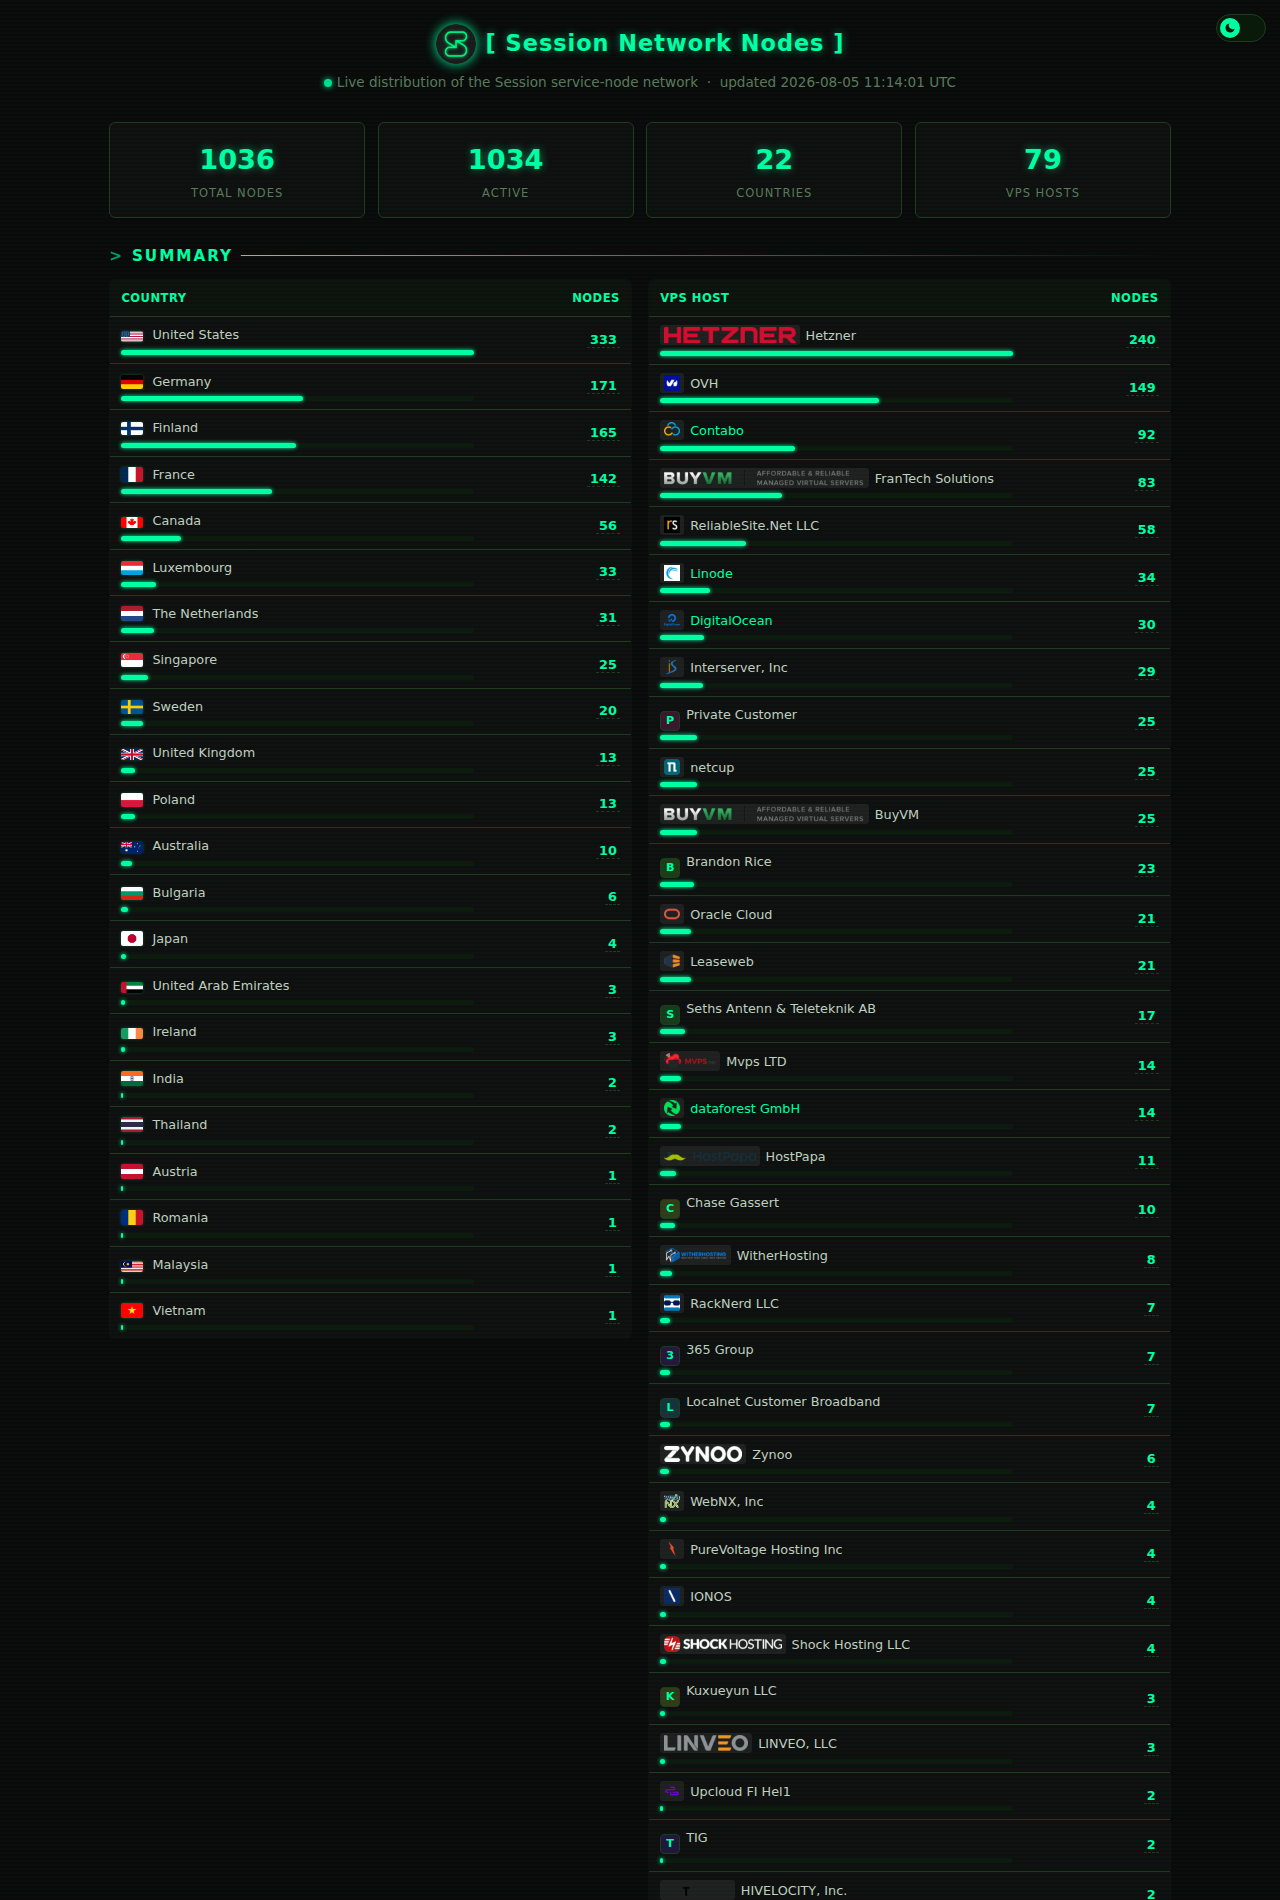
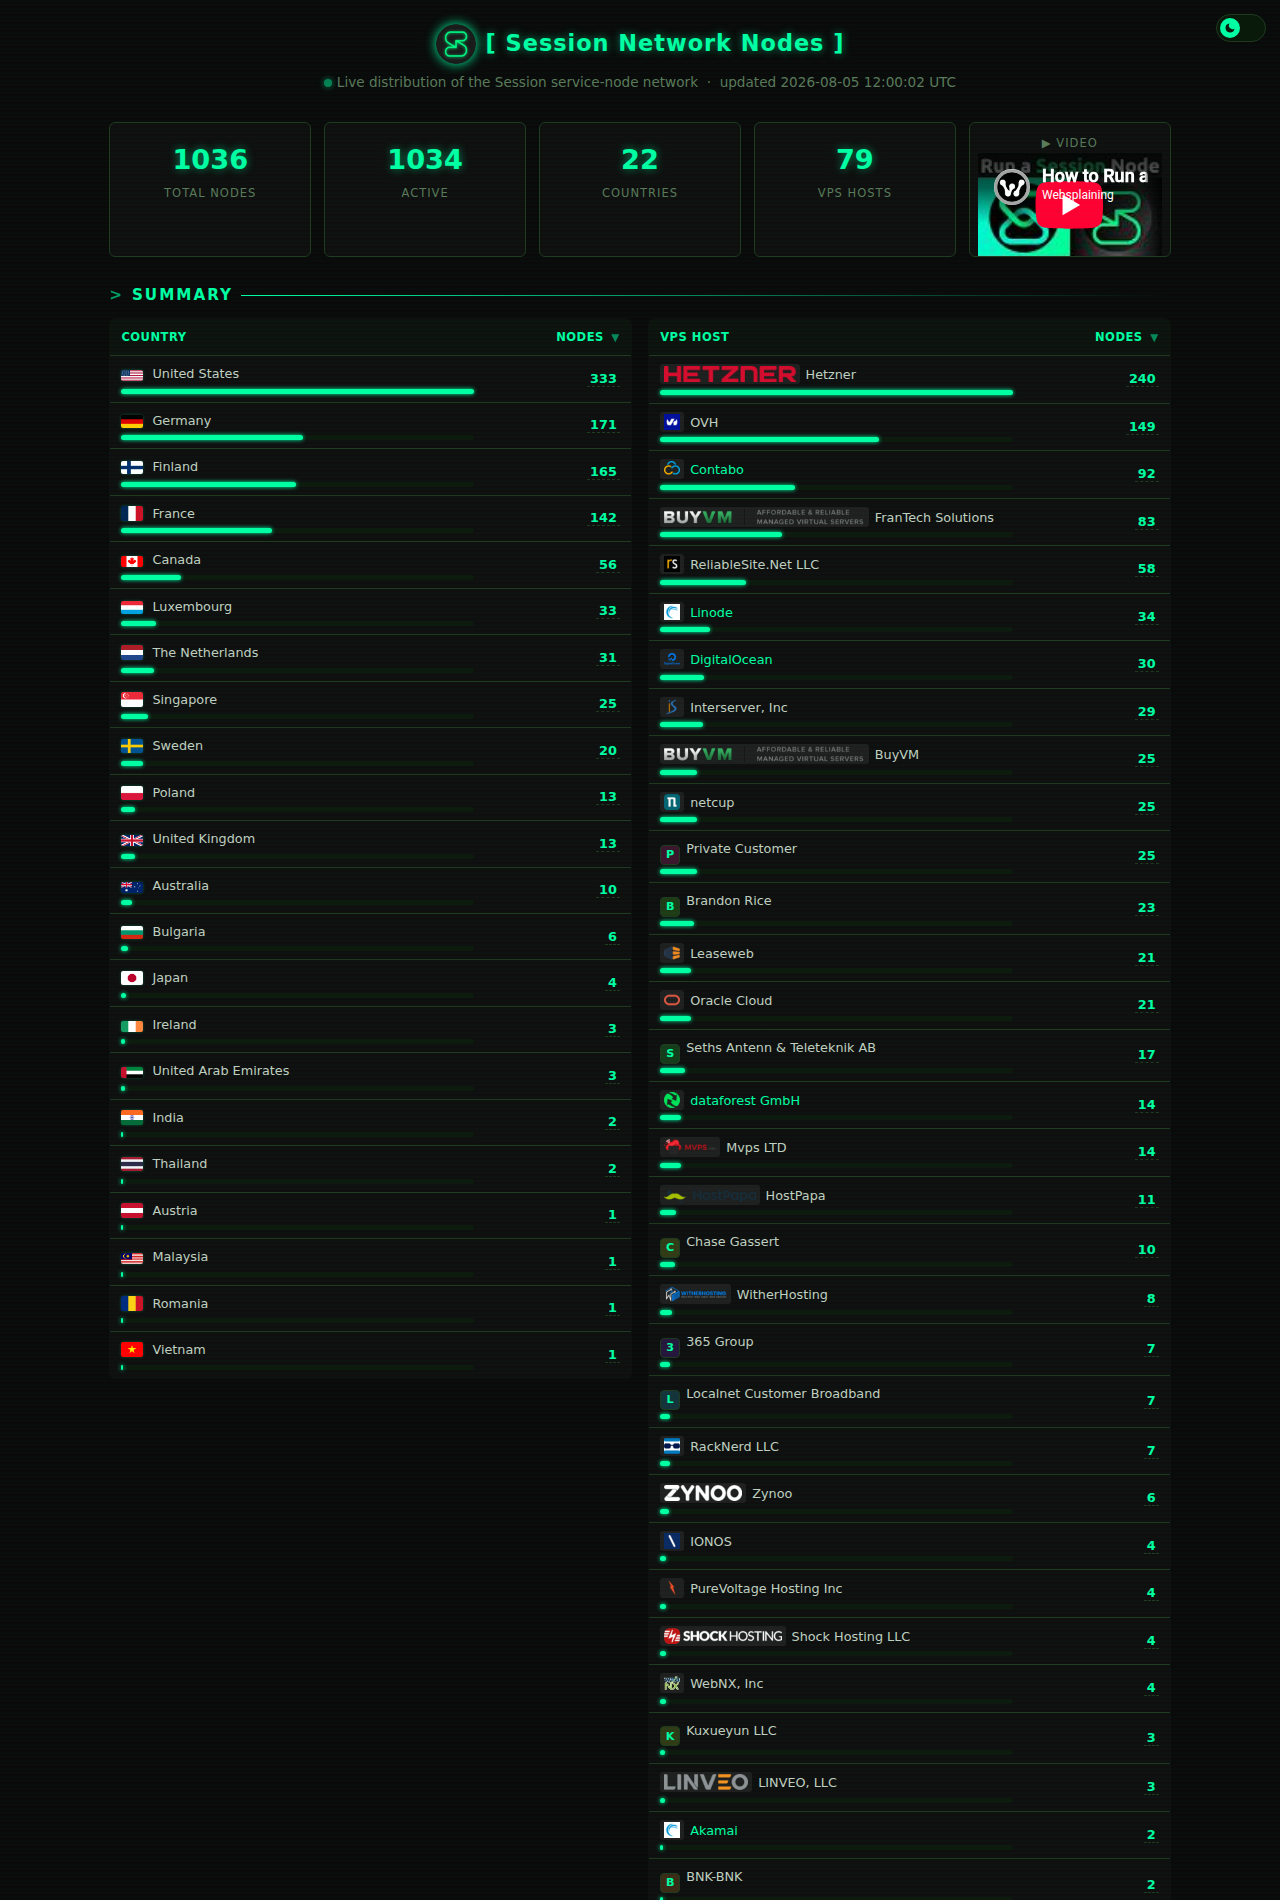
Add video label, SEO (index, canonical, JSON-LD), sortable summary Nodes column

diff --git a/index.html b/index.html
@@ -3,8 +3,10 @@
 <head>
   <meta charset="UTF-8">
   <meta name="viewport" content="width=device-width, initial-scale=1.0">
-  <title>Session Network Nodes</title>
-  <meta name="robots" content="noindex, nofollow">
+  <title>Session Network Nodes - Live Distribution, VPS Hosts &amp; Operators</title>
+  <meta name="robots" content="index, follow">
+  <meta name="description" content="Live distribution of the Session service-node network: VPS hosts, countries, operator wallets, and per-node details.">
+  <link rel="canonical" href="https://sessionaiagent.com/secret/">
   <meta property="og:title" content="Session Network Nodes">
   <meta property="og:description" content="Live distribution of the Session service-node network: VPS hosts, countries, operator wallets, and per-node details.">
   <meta property="og:url" content="https://sessionaiagent.com/secret/">
@@ -17,6 +19,8 @@
   <meta name="twitter:title" content="Session Network Nodes">
   <meta name="twitter:description" content="Live distribution of the Session service-node network: VPS hosts, countries, operator wallets, and per-node details.">
   <meta name="twitter:image" content="https://sessionaiagent.com/secret/og-image.png">
+  <script type="application/ld+json">{"@context":"https://schema.org","@type":"WebPage","name":"Session Network Nodes","description":"Live distribution of the Session service-node network: VPS hosts, countries, operator wallets, and per-node details.","url":"https://sessionaiagent.com/secret/","inLanguage":"en"}</script>
+  <script type="application/ld+json">{"@context":"https://schema.org","@type":"Dataset","name":"Session Service-Node Network","description":"Live distribution of Session service nodes: countries, VPS hosts, operator wallets, per-node IPs and metadata.","url":"https://sessionaiagent.com/secret/","distribution":{"@type":"DataDownload","contentUrl":"https://sessionaiagent.com/secret/nodes.json","encodingFormat":"application/json"}}</script>
   <link rel="icon" type="image/png" href="/favicon-64.png">
   <style>
     *, *::before, *::after { box-sizing: border-box; margin: 0; padding: 0; }
@@ -60,6 +64,9 @@
     .card { background:var(--surface); border:1px solid var(--border); border-radius:6px; padding:.9rem 1rem; text-align:center; }
     .card .n { font-size:1.7rem; font-weight:700; color:var(--accent); text-shadow:var(--glow); font-variant-numeric:tabular-nums; }
     .card .l { font-size:.72rem; color:var(--muted); text-transform:uppercase; letter-spacing:1px; margin-top:.2rem; }
+    .videocard { padding:.5rem .5rem 0; overflow:hidden; }
+    .videocard .video-wrap { position:relative; aspect-ratio:16/9; }
+    .videocard .video-wrap iframe { position:absolute; inset:0; width:100%; height:100%; border:0; }
     .card .n.loading {
       background:linear-gradient(90deg, rgba(0,255,163,.12) 0%, var(--accent) 50%, rgba(0,255,163,.12) 100%);
       background-size:200% 100%;
@@ -133,6 +140,7 @@
       .cards { grid-template-columns:repeat(2,1fr); gap:.6rem; }
       .card { padding:.7rem .5rem; }
       .card .n { font-size:1.35rem; }
+      .videocard { grid-column:span 2; padding:.5rem .5rem 0; }
       .brand h1 { font-size:1.15rem; }
       .brand img { width:32px; height:32px; }
       .sub { font-size:.78rem; }
@@ -168,19 +176,28 @@
     <div class="card"><div class="n loading" id="c-active">···</div><div class="l">Active</div></div>
     <div class="card"><div class="n loading" id="c-countries">···</div><div class="l">Countries</div></div>
     <div class="card"><div class="n loading" id="c-hosts">···</div><div class="l">VPS Hosts</div></div>
+    <div class="card videocard">
+      <div class="l">▶ Video</div>
+      <div class="video-wrap">
+        <iframe src="https://www.youtube-nocookie.com/embed/cjluIwzUS74"
+                title="Session AI Agent video"
+                allow="accelerometer; autoplay; clipboard-write; encrypted-media; gyroscope; picture-in-picture; web-share"
+                allowfullscreen loading="lazy"></iframe>
+      </div>
+    </div>
   </div>
 
   <h2>Summary</h2>
   <div class="grid2">
     <div>
       <table id="countryTable">
-        <thead><tr><th>Country</th><th style="text-align:right">Nodes</th></tr></thead>
+        <thead><tr><th>Country</th><th class="count-head" style="text-align:right">Nodes</th></tr></thead>
         <tbody></tbody>
       </table>
     </div>
     <div>
       <table id="hostTable">
-        <thead><tr><th>VPS Host</th><th style="text-align:right">Nodes</th></tr></thead>
+        <thead><tr><th>VPS Host</th><th class="count-head" style="text-align:right">Nodes</th></tr></thead>
         <tbody></tbody>
       </table>
     </div>
@@ -216,6 +233,7 @@
 <script>
 let DATA = { countries: [], hosts: [], nodes: [] };
 let sortKey = 'country', sortDir = 1, query = '';
+let countryDir = -1, hostDir = -1;
 
 const S_ICON = '<svg viewBox="0 0 24 24"><circle cx="12" cy="12" r="5"/><g stroke="#0d1a0d" stroke-width="2" stroke-linecap="round"><path d="M12 1v3M12 20v3M4.2 4.2l2.1 2.1M17.7 17.7l2.1 2.1M1 12h3M20 12h3M4.2 19.8l2.1-2.1M17.7 6.3l2.1-2.1"/></g></svg>';
 const M_ICON = '<svg viewBox="0 0 24 24"><path d="M21 12.8A9 9 0 1 1 11.2 3a7 7 0 0 0 9.8 9.8z"/></svg>';
@@ -336,13 +354,17 @@ function ago(ts) {
 }
 
 function renderSummary() {
-  const maxC = Math.max(1, ...DATA.countries.map(c => c.count));
-  const maxH = Math.max(1, ...DATA.hosts.map(h => h.count));
-  document.querySelector('#countryTable tbody').innerHTML = DATA.countries.map(c => `
+  const countries = [...DATA.countries].sort((a, b) => (a.count - b.count) * countryDir || a.country.localeCompare(b.country));
+  const hosts = [...DATA.hosts].sort((a, b) => (a.count - b.count) * hostDir || a.host.localeCompare(b.host));
+  const maxC = Math.max(1, ...countries.map(c => c.count));
+  const maxH = Math.max(1, ...hosts.map(h => h.count));
+  document.querySelector('#countryTable .count-head').innerHTML = 'Nodes <span class="arrow">' + (countryDir === 1 ? '▲' : '▼') + '</span>';
+  document.querySelector('#hostTable .count-head').innerHTML = 'Nodes <span class="arrow">' + (hostDir === 1 ? '▲' : '▼') + '</span>';
+  document.querySelector('#countryTable tbody').innerHTML = countries.map(c => `
     <tr><td>${flag(c.cc)} ${esc(c.country)}
       <div class="barwrap" style="margin-top:4px"><div class="bar" style="width:${(c.count/maxC*100).toFixed(1)}%"></div></div></td>
       <td class="count"><span class="countlink" title="Filter nodes: ${esc(c.country)}" data-filter="${esc(c.country)}">${c.count}</span></td></tr>`).join('') || '<tr><td colspan="2" class="nodata">no data</td></tr>';
-  document.querySelector('#hostTable tbody').innerHTML = DATA.hosts.map(h => `
+  document.querySelector('#hostTable tbody').innerHTML = hosts.map(h => `
     <tr><td>${linkHost(h.host, hostIcon(h.host) + esc(h.host))}
       <div class="barwrap" style="margin-top:4px"><div class="bar" style="width:${(h.count/maxH*100).toFixed(1)}%"></div></div></td>
       <td class="count"><span class="countlink" title="Filter nodes: ${esc(h.host)}" data-filter="${esc(h.host)}">${h.count}</span></td></tr>`).join('') || '<tr><td colspan="2" class="nodata">no data</td></tr>';
@@ -433,6 +455,8 @@ document.getElementById('search').addEventListener('input', e => { query = e.tar
     if (el) applyNodeFilter(el.dataset.filter);
   });
 });
+document.querySelector('#countryTable .count-head').addEventListener('click', () => { countryDir *= -1; renderSummary(); });
+document.querySelector('#hostTable .count-head').addEventListener('click', () => { hostDir *= -1; renderSummary(); });
 
 load();
 setInterval(load, 120000);
